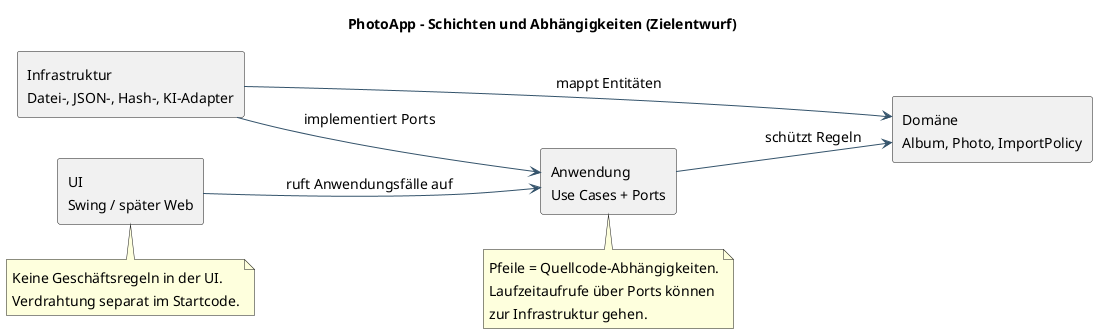
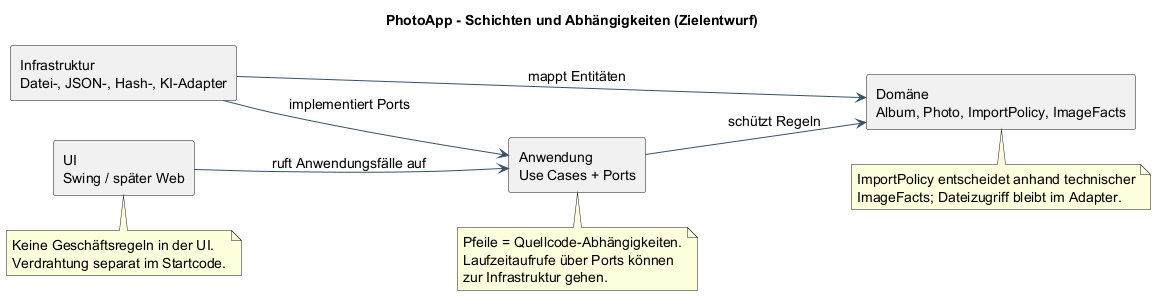
Fix for Issue #17: Block 3 review implementation (#18)
* Block 3 review implementation

* Block 3 review implementation

* Implement changes 2

---------

Changed region(s): [[0.0, 0.152, 1.0, 0.973], [0.3719, 0.6385, 0.6819, 1.0], [0.3099, 0.0304, 0.6819, 0.0912]]

diff --git a/docs/design/SCHNITTSTELLEN.md b/docs/design/SCHNITTSTELLEN.md
@@ -8,19 +8,23 @@ Die Diagramme sind Zielentwurf; im Code sind nur die Domänengrundlagen umgesetz
 |---|---|
 | AlbumRepository.findById(id) | isolierte Arbeitskopie, Fehler bei unbekannter ID; kein null |
 | AlbumRepository.findAll() | List<AlbumSummary> ohne Bildbytes, auch gelöschte Alben ausfiltern |
-| AlbumRepository.save(album) | atomarer JSON-Austausch; Versionsprüfung; Fehler lässt alte Metadaten gültig |
+| AlbumRepository.save(album) | atomarer JSON-Austausch; Fehler lässt alte Metadaten gültig. Pro Album wird die Sperre vom Laden bis zum Schreiben gehalten. Save prüft keine fachliche Bestätigungsversion. |
 | PhotoStorage.stage(source) | begrenzte, unveränderliche Kopie; bei Fehler eigene Teilkopien verwerfen |
-| PhotoStorage.store(staged) | neue eindeutige Foto-ID und Referenz, kein Überschreiben vorhandener Dateien; bei Fehler keine committed neue Datei |
+| PhotoStorage.store(staged) | neue eindeutige Foto-ID, Ablage- und Vorschaureferenz, kein Überschreiben vorhandener Dateien; bei Fehler keine committed neue Datei |
 | PhotoStorage.discardStage(staged) | idempotent, Fehler werden für spätere Bereinigung erfasst, kein Fehler nach außen |
 | PhotoStorage.removeStored(stored) | löscht nur noch nicht referenzierte Importdatei; Fehler als Recovery-Aufgabe erfassen |
-| PhotoStorage.moveToTrash(albumId) | Vertrag nach ADR-003: vor Commit alle Originale erhalten, nach Commit nur Erfolg mit evtl. offener Bereinigung |
+| PhotoStorage.moveToTrash(albumId) | Vertrag nach ADR-003: vor Commit alle Originale erhalten; nach Commit `TrashResult(cleanupPending)` zurückgeben |
 | PhotoStorage.loadPage(albumId, offset, limit) | sortierte PhotoPage mit max. 100 Vorschauen, keine Originale im UI-Puffer |
-| ImageFileValidator.validate(staged, policy) | tatsächlichen Inhalt und Größe prüfen; unbekannte Policy ablehnen |
-| ImageHasher.sha256(staged) | SHA-256 gestreamt auf genau demselben Snapshot wie Validator/store |
+| ImageFactsInspector.inspect(staged) | technische Fakten des unveränderlichen Snapshots liefern (`ImageFacts(sizeBytes, detectedFormat)`); bei Lesefehler technischer Fehler |
+| ImageHasher.sha256(staged) | SHA-256 gestreamt auf genau demselben Snapshot wie ImageFactsInspector/store |
 | DescriptionSuggester.suggest(request) | optional, deaktiviert; vor/nach Guardrails, liefert nur Vorschlag |
 
-AlbumSummary: id, name, photoCount, version. StagedImage: opaker Token; Infrastruktur löst ihn
-intern auf einen Pfad auf. StoredPhoto: id, storageRef, capturedAt; toPhoto(hash) erzeugt Photo.
+AlbumSummary: id, name, photoCount, version. PhotoView: id, title, previewRef; einziges
+Foto-Ergebnis für die UI. TrashResult: cleanupPending. StagedImage: opaker Token; Infrastruktur löst ihn
+intern auf einen Pfad auf. StoredPhoto: id, storageRef, previewRef, capturedAt;
+toPhoto(hash, title) erzeugt Photo mit dem vom Use Case geprüften Titel. Die Domäne trimmt
+den Titel außen, normalisiert ihn nach NFC und verlangt 1–100 Unicode-Codepoints.
+Photo.title() liefert den gespeicherten Titel für PhotoView.
 PhotoPage: Liste aus Foto-ID und Vorschaubildreferenz, offset, hasMore; Details in Block 4.
 SourceRef, SuggestionRequest, Suggestion und Fehlerklassen sind im Zielentwurf noch nicht
 vollständig ausmodellierte DTOs. `source` bezeichnet eine neutrale, vom Adapter geprüfte
@@ -29,11 +33,19 @@ Quellreferenz, kein beliebiger vom Agenten übergebener Dateisystempfad.
 ## Geschäftsregeln: eindeutiger Eigentümer
 - Album: Name; 10.000; Hash-Eindeutigkeit je Album; aktive/gelöschte Zustandsübergänge;
   Foto-Reihenfolge und Entfernen.
-- Photo: ID, Hash, Ablagereferenz und editierbare Metadaten; offene Längen später ergänzen.
-- ImportPolicy: Dateigrenze und erlaubte Formate; ImageFileValidator führt die technische
-  Prüfung dieser Policy aus. Kein Dateizugriff in der Anwendung selbst.
-- Anwendungsfall: Reihenfolge, Sperre/Version, Fehlerkompensation; keine zweite Limitkonstante.
+- Photo: ID, Hash, Ablagereferenz und editierbare Metadaten. `validateAndNormalizeTitle`
+  stellt für den Fototitel GR-05 und A-01 sicher (Trim, NFC, 1–100 Unicode-Codepoints).
+- Album: Jede erfolgreiche Zustandsänderung erhöht die Version monoton. Enthaltene Fotometadaten
+  werden über Album geändert, damit das Album die Version zuverlässig mitführt.
+- ImportPolicy: Dateigrenze und erlaubte Formate; `check(ImageFacts)` entscheidet fachlich und
+  wirft `ValidationError`. ImageFactsInspector ermittelt nur Größe und tatsächlich erkanntes
+  Format. Kein Dateizugriff in der Domäne oder Anwendung.
+- Album: `markAsDeleted(at, expectedVersion)` ist alleiniger Besitzer der fachlichen
+  Versionsprüfung und wirft `VersionConflict`; bei Erfolg erhöht Album die Version.
+- Anwendungsfall: Reihenfolge, Sperre und Fehlerkompensation; keine zweite Limitkonstante oder
+  parallele Versionsentscheidung. `save(album)` persistiert atomar, prüft aber keine Bestätigungsversion.
 - UI: Eingabe erfassen, Bestätigung einholen, Fehlertexte und Vorschauen anzeigen.
+  Sie erhält bei Fotoimport ausschließlich `PhotoView`, nie ein `Photo`-Domänenobjekt.
 
 ## Weitere Pflichtfunktionen im Zielentwurf
 Album erstellen/anzeigen/umbenennen und Foto entfernen werden in Block 4 über eigene

diff --git a/docs/design/CRC.md b/docs/design/CRC.md
@@ -1,25 +1,32 @@
 # CRC-Karten und Walkthrough
 | Klasse | Verantwortlichkeiten | Zusammenarbeit |
 |---|---|---|
-| Album | Name 1–50/nicht leer; 10.000; Hash einmal pro Album; Reihenfolge; Löschstatus | Photo |
-| Photo | Identität, SHA-256, Ablagereferenz, Titel/Beschreibung | Album |
-| ImportPolicy | vereinbarte Größe und erlaubte Formate ausdrücken | ImageFileValidator |
-| AddPhotoUseCase | serialisierter Import, Fehlerkompensation, Mehrfachimport als Einzelimporte | AlbumRepository, Album, PhotoStorage, ImageFileValidator, ImageHasher |
-| DeleteAlbumUseCase | Vorschau mit Anzahl/Version; Status zuerst; Rollback vor Trash-Commit | AlbumRepository, Album, PhotoStorage |
-| AlbumRepository | Arbeitskopien/Übersicht/atomar speichern als Vertrag | FileAlbumRepository, AlbumSummary |
-| PhotoStorage | Snapshot, Ablage, Vorschaubildseiten, Copy-before-delete | LocalPhotoStorage, StagedImage, StoredPhoto |
-| ImageFileValidator | Port für reale Größen-/Inhaltsprüfung | FileImageFileValidator, ImportPolicy |
+| Album | Name 1–50/nicht leer; 10.000; Hash einmal pro Album; Reihenfolge; Löschstatus; Monotone Version bei allen Zustandsänderungen; enthaltene Fotometadaten koordinieren | Photo |
+| Photo | Identität, SHA-256, Ablagereferenz, Titel/Beschreibung; Titel validieren und NFC-normalisieren | Album |
+| ImportPolicy | Größenlimit und erlaubte Formate fachlich anhand technischer Fakten prüfen | ImageFacts |
+| ImageFacts | Dateigröße und erkanntes Format neutral ausdrücken | ImageFactsInspector |
+| AddPhotoUseCase | serialisierter Import; Titel in der Domäne prüfen, Fakten ermitteln, Policy prüfen, Fehlerkompensation, Mehrfachimport als Einzelimporte | AlbumRepository, Album, Photo, PhotoStorage, ImageFactsInspector, ImportPolicy, ImageHasher, PhotoView |
+| DeleteAlbumUseCase | Vorschau mit Anzahl/Version; Albumversion fachlich prüfen; Status zuerst; Rollback vor Trash-Commit | AlbumRepository, Album, PhotoStorage |
+| AlbumRepository | Arbeitskopien/Übersicht/atomar speichern, ohne Bestätigungsversion zu entscheiden | FileAlbumRepository, AlbumSummary |
+| PhotoStorage | Snapshot, Ablage, Vorschaubildseiten, Copy-before-delete, TrashResult | LocalPhotoStorage, StagedImage, StoredPhoto |
+| ImageFactsInspector | technische Fakten aus dem Snapshot ermitteln, keine Policy-Entscheidung | FileImageFactsInspector, ImageFacts |
 | ImageHasher | Hash-Port ohne Dateizugriff im Use Case | Sha256ImageHasher |
-| PhotoController | Eingaben, Warnung, kurze Fehler, Darstellung | AddPhotoUseCase, DeleteAlbumUseCase |
+| PhotoView | UI-neutrale Fotoansicht mit ID, Titel und Vorschaureferenz | AddPhotoUseCase, PhotoController |
+| PhotoController | Eingaben, Warnung, kurze Fehler, Darstellung; kein Domänenzugriff | AddPhotoUseCase, DeleteAlbumUseCase, PhotoView |
 | DescriptionSuggester | optionaler Beschreibungsvorschlag | LlmDescriptionSuggester; Won’t |
 
 ## Walkthrough
-1. UI übergibt ausgewähltes Foto an AddPhotoUseCase; dieser lädt eine Album-Arbeitskopie.
-2. Storage erzeugt Snapshot, Validator prüft Policy, Hasher berechnet SHA-256.
+1. UI übergibt ausgewähltes Foto und seinen Titel an `AddPhotoUseCase`; dieser prüft den Titel
+   vor dem Staging über die Domäne (trimmen, NFC, 1–100 Unicode-Codepoints), lädt danach eine
+   Album-Arbeitskopie.
+2. Bei ungültigem Titel wird die Datei sofort abgelehnt. Sonst erzeugt Storage den Snapshot,
+   Inspector ermittelt Größe/Format; ImportPolicy entscheidet,
+   Hasher berechnet SHA-256.
 3. Album prüft Limit und Hash. Duplikat? Keine Ablage/Metadatenänderung; Snapshot aufräumen.
 4. Andernfalls neue Datei ablegen, Photo erzeugen, Album ändern, Metadaten speichern.
 5. Metadatenfehler? Nur neue Datei bereinigen; gespeichertes Album bleibt unverändert.
-6. Löschen: Summary zeigen, Version bestätigen, Status speichern, sicheren Trash aufrufen.
+6. Löschen: Summary zeigen, Bestätigungsversion an `Album.markAsDeleted` übergeben
+   (einziger Versionsprüfer), Status speichern, sicheren Trash aufrufen.
    Storage-Fehler vor Commit? Status zurücksetzen. Rollback-Fehler? Recovery, alle Originale da.
 
 Selbstprüfung durch KI ist kein Partnerreview. Die drei Prüffragen stehen im Review-Entwurf.

diff --git a/docs/adr/ADR-003-fehler.md b/docs/adr/ADR-003-fehler.md
@@ -13,10 +13,14 @@ gegen andere lokale Prozesse (Sperre). Bei ungeklärtem Recovery wird das Album 
 Technische Details gehen ins lokale Log, keine privaten Pfade in Nutzermeldungen.
 
 ### Foto hinzufügen
-1. Begrenzten, unveränderlichen Snapshot erzeugen, echten Inhalt prüfen, SHA-256 berechnen.
-2. Albumregeln prüfen, neue Foto-ID vergeben, Kopie unter dieser ID ablegen.
-3. Arbeitskopie ändern und JSON atomar speichern. Dies ist der fachliche Commit.
-4. Wenn Schritt 3 scheitert: neue Ablage löschen; scheitert das auch, bleibt nur eine verwaiste
+1. Den von der UI übergebenen Fototitel vor dem Staging in der Domäne prüfen: außen trimmen,
+   nach NFC normalisieren und 1–100 Unicode-Codepoints verlangen (GR-05, A-01).
+   Bei `ValidationError` keine Staging-Datei erzeugen.
+2. Begrenzten, unveränderlichen Snapshot erzeugen, echten Inhalt prüfen, SHA-256 berechnen.
+3. Albumregeln prüfen, neue Foto-ID vergeben, geprüften Titel weitergeben und Kopie unter
+   dieser ID ablegen.
+4. Arbeitskopie ändern und JSON atomar speichern. Dies ist der fachliche Commit.
+5. Wenn Schritt 4 scheitert: neue Ablage löschen; scheitert das auch, bleibt nur eine verwaiste
 Datei. Das bisher gespeicherte Album bleibt gültig. `discardStage` ist idempotent, scheitert
 nicht nach außen; Staging-Reste werden beim nächsten Start erneut entfernt.
 Keine automatische Löschung erreichbarer Originale. Journal und gespeicherte Referenzen
@@ -24,8 +28,18 @@ entscheiden bei Startbereinigung, nicht das Alter der Datei allein.
 
 ### Album löschen
 `requestDeletion` liefert Summary inklusive Version und Anzahl, schreibt nichts.
-`confirmDeletion` prüft dieselbe Version unter Sperre, erzeugt eine Arbeitskopie,
-setzt deletedAt und speichert **zuerst** den Löschstatus; bei Speicherfehler keine Dateibewegung.
+`confirmDeletion` hält die Albumsperre vom Laden der Arbeitskopie bis zum atomaren Speichern.
+Es ruft `Album.markAsDeleted(at, expectedVersion)` auf. Album ist alleiniger Eigentümer der
+fachlichen Versionsprüfung: Bei `expectedVersion != version()` wirft es `VersionConflict`,
+ohne Zustand oder Version zu ändern. Bei Übereinstimmung setzt es `deletedAt` und erhöht die
+Version monoton. Erst danach wird der Löschstatus gespeichert; bei Speicherfehler keine
+Dateibewegung. `AlbumRepository.save(album)` persistiert atomar, entscheidet aber selbst nicht
+über die Bestätigungsversion. Die UI lädt nach `VersionConflict` eine frische Vorschau und
+verlangt eine neue Bestätigung.
+Album erhöht seine Version bei jeder erfolgreichen Zustandsänderung, einschließlich Hinzufügen
+und Entfernen von Fotos, Umbenennen, enthaltenen Fotometadaten, Löschen und Wiederherstellen.
+Das Zurücksetzen des aktiven Status nach einem Storage-Fehler ist ebenfalls eine Zustandsänderung
+und erhöht die Version weiterhin monoton.
 `moveToTrash` ist eine logische Verschiebung mit folgendem Vertrag:
 - Vor Beginn Journal mit Operation-ID und Albumversion dauerhaft schreiben.
 - Alle Dateien in ein separates Trash-Verzeichnis **kopieren**, Integrität prüfen;
@@ -35,7 +49,8 @@ setzt deletedAt und speichert **zuerst** den Löschstatus; bei Speicherfehler ke
 - Fehler vor Commit: Originale vollständig; StorageError auslösen. Use Case setzt Status
   in Arbeitskopie zurück und speichert ihn. Auch bei Teilkopien bleiben alle Originale vorhanden.
 - Fehler nach Commit: keine fehlgeschlagene Bewegung melden und keinen Status-Rollback
-  versuchen; Trash ist vollständig, nur Bereinigung offen.
+  versuchen; Trash ist vollständig, nur Bereinigung offen. Erfolg liefert
+  `TrashResult(cleanupPending)`, damit die Rückgabe des Ports den Bereinigungsstatus ausdrückt.
 - Rollback-Speichern scheitert: Album bleibt gelöscht markiert, Originale vollständig,
   Recovery erforderlich. UI meldet „Löschen nicht abgeschlossen. Dateien bleiben erhalten.
   Bitte starte die App neu.“ Kein Erfolg und keine automatische Endlöschung.

diff --git a/ARCHITECTURE.md b/ARCHITECTURE.md
@@ -23,14 +23,18 @@ Composition Root außerhalb der fachlichen UI. Siehe [ADR-001](docs/adr/ADR-001-
 | DeleteAlbumUseCase | Vorschau, Bestätigung, zuerst Löschstatus speichern, dann Papierkorb |
 | AlbumRepository | `findById`, `findAll`, `save`; `AlbumSummary` für Übersicht, keine Bilddaten |
 | PhotoStorage | unveränderlicher Import-Snapshot, Ablage, seitenweise Vorschaubilder, sicherer Papierkorb |
-| ImageFileValidator | **Port** für technische Dateiprüfung; FileImageFileValidator liest Dateien |
+| ImageFactsInspector | **Port** für technische Fakten aus einem Snapshot; FileImageFactsInspector ermittelt Größe und erkanntes Format |
 | ImageHasher | SHA-256 des validierten Snapshots; Adapter Sha256ImageHasher |
 | PhotoController | UI-Aufrufe und Darstellung, kurze Fehlermeldungen; keine Geschäftsregeln |
 
 Album prüft die 10.000-Grenze und Hash-Eindeutigkeit selbst in `checkCanAdd`/`addPhoto`.
+Album erhöht seine Version bei jeder erfolgreichen Zustandsänderung, einschließlich
+Hinzufügen, Entfernen, Umbenennen, enthaltenen Fotometadaten sowie Löschen und Wiederherstellen.
 Album prüft den Namen im Konstruktor und in `rename`. Die geplante Metadatenbearbeitung
-berücksichtigt die Textgrenzen aus GR-05. Die ImportPolicy legt Größenlimit und erlaubte
-Formate fest. Der Validator prüft den tatsächlichen Dateiinhalt. [CRC-Karten](docs/design/CRC.md)
+berücksichtigt die Textgrenzen aus GR-05. `ImageFactsInspector` meldet technische Fakten
+(Größe und erkanntes Format); `ImportPolicy.check(facts)` entscheidet als Domänenregel über
+Größenlimit und erlaubte Formate und meldet eine Ablehnung als `ValidationError`.
+[CRC-Karten](docs/design/CRC.md)
 und [Schnittstellen](docs/design/SCHNITTSTELLEN.md) konkretisieren die Verantwortlichkeiten.
 
 ![Klassen](docs/design/klassen.png)
@@ -44,9 +48,14 @@ Bereinigen hinterlässt nur eine verwaiste Datei für die Startbereinigung.
 Mehrfachimport ruft diesen Ablauf einzeln auf; bereits erfolgreiche Fotos bleiben erhalten,
 überzählige werden abgewiesen und zusammengefasst gemeldet. Ein einzelner Schreibprozess
 serialisiert Änderungen je Album einschließlich Hash-/Limitprüfung.
+Der Fototitel wird als Parameter mit dem Foto übergeben und vor dem Staging in der Domäne
+nach GR-05 und A-01 geprüft: außen trimmen, NFC, 1–100 Unicode-Codepoints.
 
 [Album löschen](docs/design/album-loeschen.png): Vorschau enthält Fotoanzahl und Version;
-Bestätigung gilt nur für diese Version. Zuerst `deletedAt` speichern, dann `moveToTrash`.
+`Album.markAsDeleted(at, expectedVersion)` ist alleiniger Besitzer der fachlichen
+Versionsprüfung und wirft bei veralteter Bestätigung `VersionConflict`, ohne den Zustand zu
+ändern. Bei Erfolg steigt die Version; dann wird `deletedAt` gespeichert und `moveToTrash`
+aufgerufen. Der Adapter liefert `TrashResult(cleanupPending)` nach erfolgreichem Commit.
 Dieser Port kopiert zunächst vollständig und prüft die Kopien, bevor aktive Dateien entfernt
 werden. Scheitert er vor dem Commit, bleiben Originale vollständig und der Status wird
 zurückgesetzt. Scheitert auch das Zurücksetzen, bleibt das Album als gelöscht markiert;

diff --git a/AI_USAGE.md b/AI_USAGE.md
@@ -14,8 +14,10 @@ Dieses Protokoll hält fest, wie KI bei der Projektarbeit eingesetzt wurde und w
   keinen Speicher-/Move-Fehlerpfad; ergänzte Pfade sind notwendig. Status zuerst allein schützt
   nicht gegen teilweise destruktives Verschieben: Copy-before-delete und Recovery erforderlich.
   Diagramme sind Zielentwurf, kein Nachweis implementierter Persistenz oder Web-App.
-- **Übernommener Vorschlag:** ImageFileValidator als Port mit Dateiadapter, damit Anwendung
-  keinen direkten Dateizugriff enthält. Konsistenzprüfung: Pfeilnamen gegen Empfängeroperationen.
+- **Übernommener Vorschlag:** Ursprünglich ImageFileValidator als Port mit Dateiadapter, damit
+  Anwendung keinen direkten Dateizugriff enthält. Im Architekturreview #17 präzisiert zu
+  ImageFactsInspector plus fachlicher Entscheidung durch ImportPolicy. Konsistenzprüfung:
+  Pfeilnamen gegen Empfängeroperationen.
 - **Verworfener Vorschlag:** Einfach nach beliebigem Move-Fehler `deletedAt` zurücksetzen.
   Begründung: nach einem Teil-Move könnten Originale fehlen; stattdessen definierter
   Copy-before-delete-Vertrag (ADR-003). Ebenso keine ungeklärte 100-Foto-Grenze übernehmen.
@@ -29,6 +31,26 @@ Dieses Protokoll hält fest, wie KI bei der Projektarbeit eingesetzt wurde und w
 - **Ergebnis** Dokumentationskorrekturen, Risikoübersicht und Vorlagen für Änderungsanträge und KI-Einträge.
 - **Bewertung** Belegte Projektentscheidungen und Annahmen aus den Anforderungen übernommen. Für das Vorgehensmodell fehlt im Checkout eine belastbare Quelle. Der bisher leere Abschnitt wurde entfernt.
 - **Reviewstand** Teamreview ausstehend.
+
+## Issue #17 – Review Architektur v1 (Block 3)
+
+- **Aufgabe/Ziel** Reviewhinweise zu fachlichem Regelbesitz, Versionsprüfung, Sequenz- und
+  Klassendiagrammkonsistenz sowie UI-/Domänengrenze umsetzen.
+- **Werkzeug und Modell** Copilot SDK in VS Code; genaue Modellvariante nicht ausgewiesen.
+- **Ergebnis** ImportPolicy entscheidet anhand technischer ImageFacts; Album ist alleiniger
+  Besitzer der Bestätigungsversion; PhotoView und TrashResult schließen fehlende DTO-Verträge.
+  CRC, Schnittstellen, Architektur, ADR-003 und PlantUML-Quellen entsprechend abgeglichen.
+- **Übernommen** Technische Dateifakten vom Adapter trennen; Fachentscheidung in die Domäne
+  verlagern. Veraltete Löschbestätigungen als `VersionConflict` im Album ablehnen. UI erhält
+  nur PhotoView. Fehlende Rückgabetypen und der Konfliktzweig sind ergänzt.
+- **Bereits im Checkout erledigt** Die im Review erwähnten Links auf nicht vorhandene
+  Block-3-Status-/PDF-/Prüfprotokolldateien waren in der aktuellen README und Architekturdatei
+  nicht mehr enthalten; daher keine weitere Linkänderung.
+- **Bewertung/Abgrenzung** Der Review betrifft den Block-3-Zielentwurf; noch nicht vorhandene
+  Use Cases und Adapter wurden nicht als produktiver Code vorgezogen. Benannte
+  Import-/Domänenfehler in der Java-Grundlage bleiben für Block 4 vorgemerkt.
+- **Überprüfung und Reviewstand** Maven-Validierung nach Dokument-/Diagrammänderung;
+  erneute Teamprüfung steht aus.
 
 ## Vorlage für künftige Einträge
 

diff --git a/CHANGELOG.md b/CHANGELOG.md
@@ -3,6 +3,9 @@
 ## [Unreleased]
 
 ### Changed
+- Architekturreview #17 umgesetzt: ImportPolicy entscheidet über ImageFacts, Album besitzt die
+  Versionsprüfung beim Löschen, PhotoView/TrashResult und der Konfliktpfad sind modelliert;
+  Architekturtexte und Diagrammquellen abgeglichen.
 - Projektdokumentation mit Implementierungsstand und Anforderungen abgeglichen. Vorlagen für Änderungsanträge und KI-Nutzung sowie eine Risikoübersicht ergänzt. (#4)
 - Block-2-Anforderungen übernommen und als Soll-Verhalten von der aktuellen Implementierung abgegrenzt.
 - Architektur und README weisen Cloud-, Medien- und Plattformanforderungen sowie offene Entscheidungen aus.
